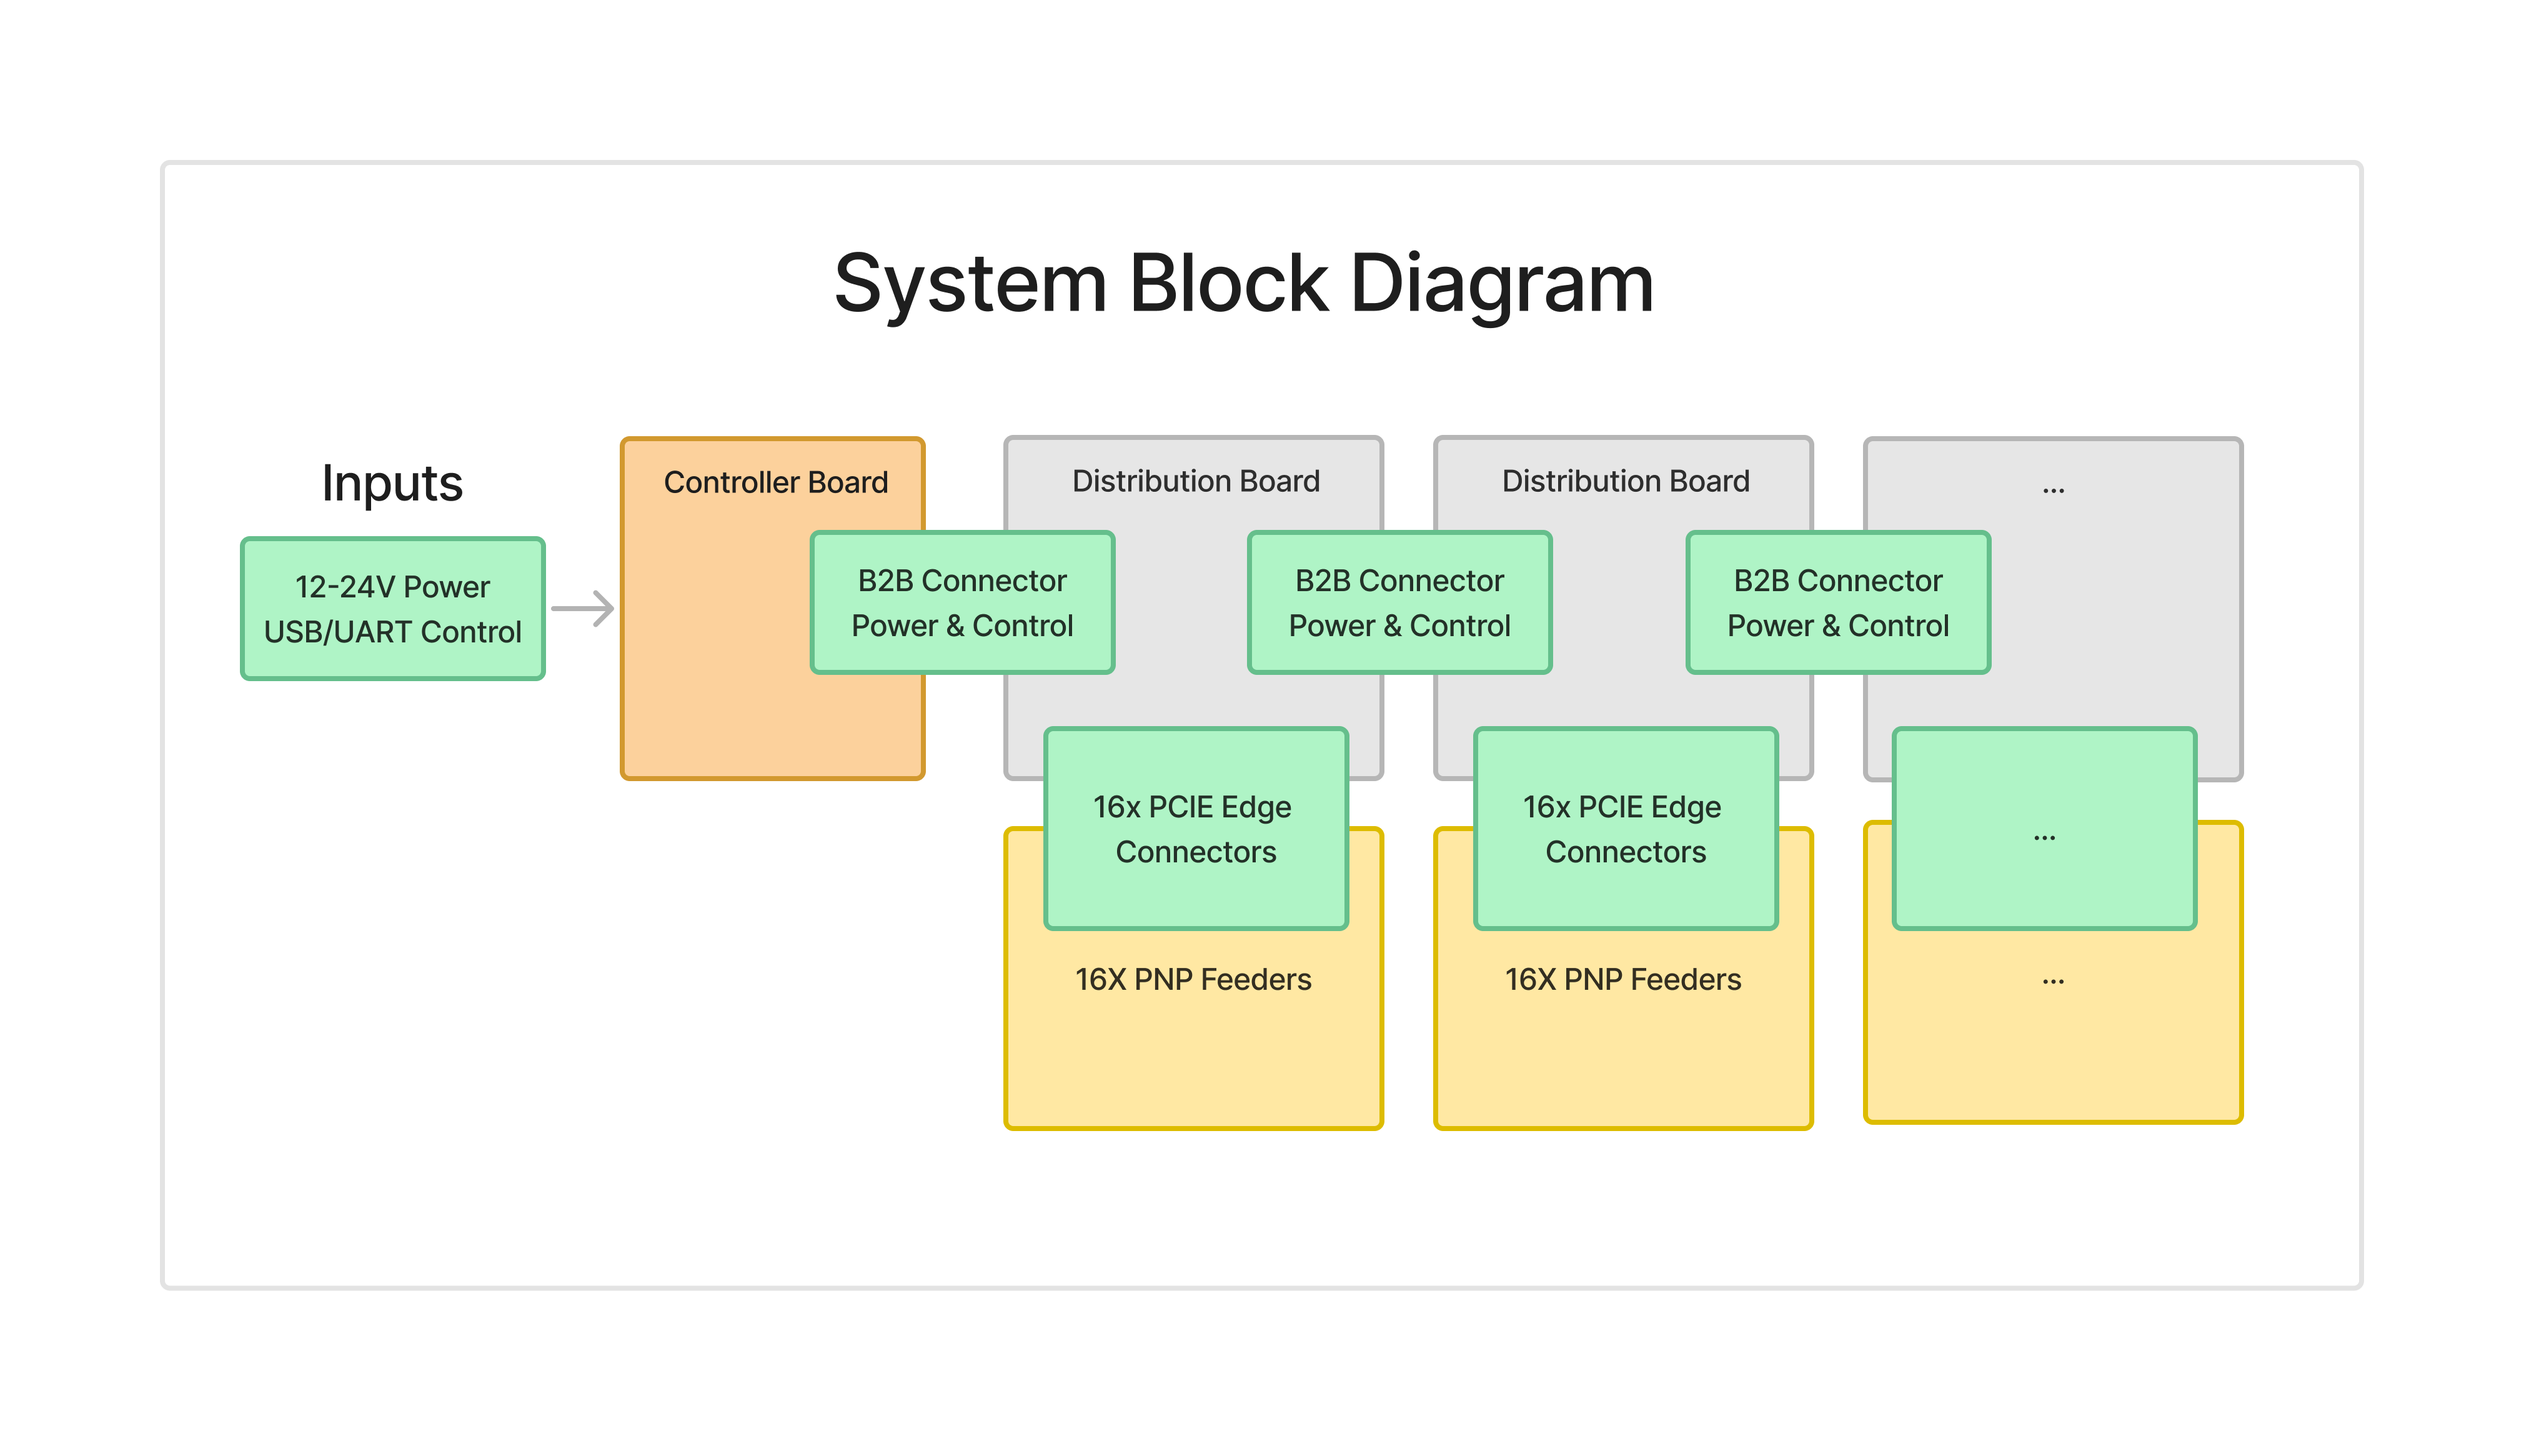
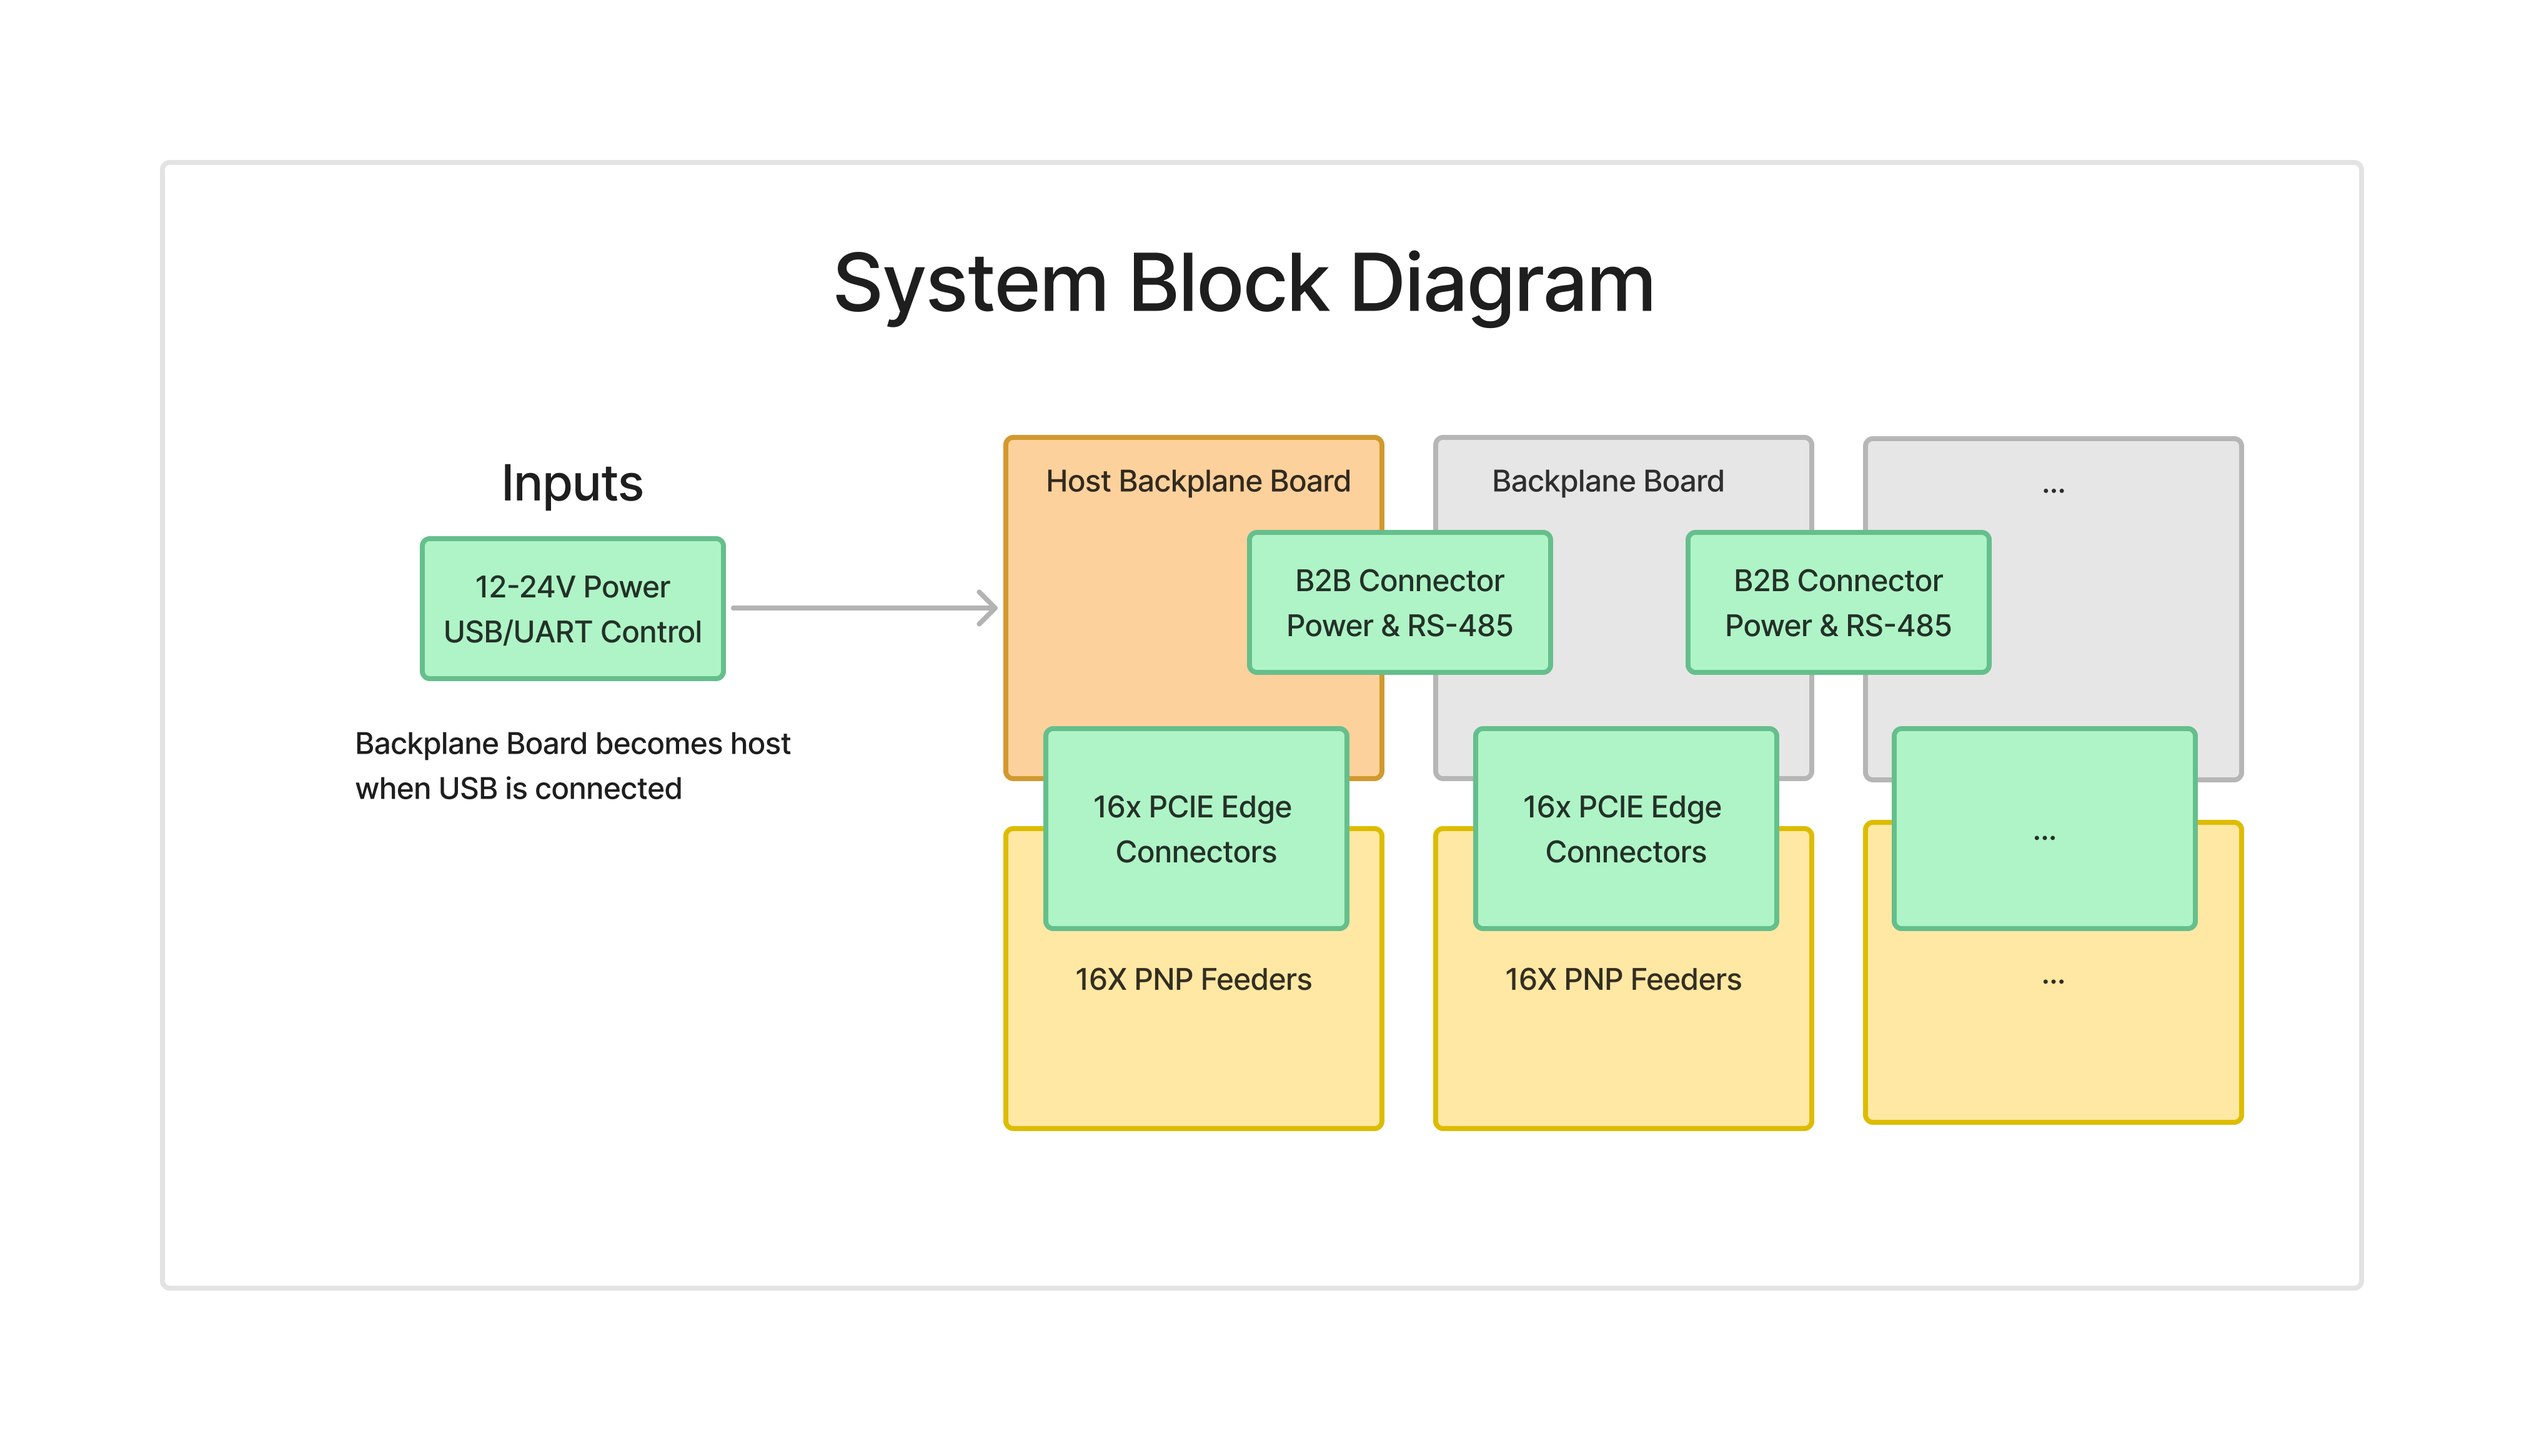
updated readme

Changed region(s): [[0.0936, 0.2791, 0.5926, 0.5581], [0.6861, 0.4031, 0.7797, 0.4341], [0.5926, 0.3101, 0.6861, 0.3411]]

diff --git a/README.md b/README.md
@@ -3,7 +3,7 @@
 ![Prototype Feeder Advancing](docs/images/feed.gif)
 
 ## Overview
-The aim of this project is to design a powered and addressable pick and place feeder for less than $25 fully assembled and tested. Other pnp feeders exist but didn't meet my design requirements or were too expensive to justify having 100+ feeders.
+The aim of this project is to design a low cost powered and addressable pick and place feeder. Other pnp feeders exist but didn't meet my design requirements or were too expensive to justify having 100+ feeders.
 
 This project aims to solve these challenges by providing an easy-to-use, modular, and affordable feeder system that can be used with both the Neoden 4 and Lumen PnP machines.
 
@@ -11,7 +11,7 @@ This project aims to solve these challenges by providing an easy-to-use, modular
 
 1. **Compatibility**
    - Design a powered, pick and place feeder compatible with Neoden 4 and OpenPNP machines.
-   - Support component sizes down to 0402.
+   - Support component sizes down to 0201.
 
 2. **Low Cost**
    - Keep the BOM cost per feeder unit under $10 to make the solution accessible and affordable for hobbyists and small manufacturers.
@@ -25,19 +25,19 @@ This project aims to solve these challenges by providing an easy-to-use, modular
    - Allow preloaded cartridges for efficient part swapping, avoiding the need to load components directly into the machine.
 
 5. **Scalability**
-   - Support up to 256 feeders on a single master device to enable integration into a larger inventory system, such as with InvenTree.
+   - Support up to 512 feeders on a single master device to enable integration into a larger inventory system, such as with InvenTree.
 
 ## Block Diagrams
 
 ### System Block Diagram
 ![System Block Diagram](docs/images/system_block_diagram.png)
 
-The system block diagram illustrates the three main boards involved in the design: the feeder, backplane controller and backplane distribution board. The backplane contains a master controller that distributes power and uses a CAN physical interface for UART communication, sending Modbus data packets to the distrubiton boards which go to each of the feeders. The backplane supports 8 addressing bits per feeder, allowing up to 256 feeders to be connected to a single master controller. This scalability makes the system suitable for use as an inventory system. Power can be supplied at either 24V or 12V.
+The system block diagram illustrates the two boards involved in the design: the feeder and the backplane board. One backplane board acts as the host, from either being connected to a PC or getting data from the host UART bus. Additional backplane boards can be attached and act as slaves to allow for up to 512 feeders from one host which sends RS-485 data and power. This scalability makes the system suitable for use as an inventory system. Power can be supplied at either 24V or 12V.
 
 ### Feeder Block Diagram
 ![Feeder Block Diagram](docs/images/feeder_block_diagram.png)
 
-The feeder block diagram shows that each feeder is equipped with an RP2040 microcontroller, which controls an SG90 servo motor responsible for advancing the tape forwards. The RP2040's flash memory is used to store key information for each feeder, including the MPN (Manufacturer Part Number), quantity, and footprint of the components being fed.
+The feeder block diagram shows that each feeder has a very simple board, just an EEPROM for storing MPN, quantity, feed distance and any other metadata, as well as a header for the SG90 servo motor., which controls an SG90 servo motor responsible for advancing the tape forwards. 
 
 ## Progress Checklist
 
@@ -45,16 +45,17 @@ The feeder block diagram shows that each feeder is equipped with an RP2040 micro
 2. [X] Feeder Block Diagram
 3. [X] Backplane Block Diagram
 4. [X] MVP Feeder Hardware Prototype
-5. [ ] Feeder Positioning Accuracy Testing
+5. [X] Feeder Positioning Accuracy Testing
 6. [X] Feeder Lifespan Testing
 7. [ ] Neoden 4 Data Packet Reverse Engineering
-8. [ ] Mechanical Footprint Design
-9. [ ] Feeder PCB Layout
-10. [ ] Feeder Schematic
-11. [ ] Integrate & Test Feeder
-12. [ ] Backplane PCB Layout
-13. [ ] Backplane PCB Schematic
+8. [X] Mechanical Footprint Design
+9. [X] Feeder PCB Layout
+10. [X] Feeder Schematic
+11. [X] Backplane PCB Layout
+12. [X] Backplane PCB Schematic
+13. [ ] Order PCBs and test
 14. [ ] System Integration and Testing
+15. [ ] Support OpenPNP
 
 ## Contributing
 Contributions are welcome! Please check the progress checklist above and feel free to open issues or submit pull requests for any ongoing tasks.
